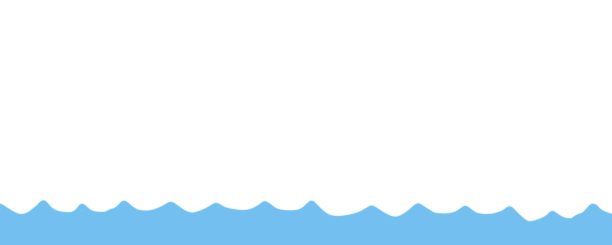
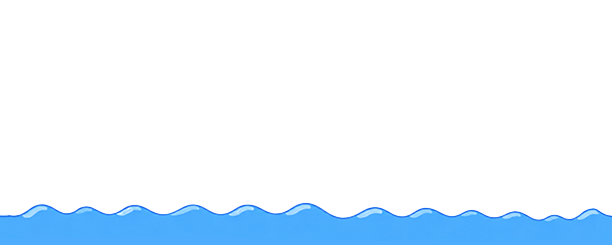
water splashes

Changed region(s): [[0.0, 0.8, 1.0, 1.0]]

diff --git a/core/src/main/java/com/bouncefish/entities/Water.java b/core/src/main/java/com/bouncefish/entities/Water.java
@@ -3,23 +3,84 @@ package com.bouncefish.entities;
 import com.badlogic.gdx.Gdx;
 import com.badlogic.gdx.graphics.Texture;
 import com.badlogic.gdx.graphics.g2d.Animation;
+import com.badlogic.gdx.graphics.g2d.Sprite;
 import com.badlogic.gdx.graphics.g2d.TextureRegion;
+import com.badlogic.gdx.math.Vector2;
+import com.badlogic.gdx.utils.Array;
+import com.bouncefish.utils.GameConstants;
 
 public class Water {
-    private static Animation<TextureRegion> waterAnimation;
+    private static Texture waterTexture;
+    private static TextureRegion waterRegion;
     private static float stateTime;
-    public static void initAnime(){
-        Texture texture1 = new Texture("water.png");
-        Texture texture2 = new Texture("water_.png");
-        TextureRegion[] frames = new TextureRegion[2];
-        frames[0] = new TextureRegion(texture1);
-        frames[1] = new TextureRegion(texture2);
-        waterAnimation = new Animation<>(0.5F,frames);
+    private static Animation<TextureRegion> splashAnimation;
+    private static Array<Float> splashX = new Array<>();
+    private static Array<Float> splashTime = new Array<>();
+    private static float splashWidth = 128f;
+    private static float splashHeight = 128f;
+
+
+    public static void initAnime() {
+        waterTexture = new Texture("water.png");
+        waterTexture.setWrap(Texture.TextureWrap.Repeat, Texture.TextureWrap.ClampToEdge);
+
+        waterRegion = new TextureRegion(waterTexture);
+
+        TextureRegion[] frames = new TextureRegion[] {
+            new TextureRegion(new Texture("splash1.png")),
+            new TextureRegion(new Texture("splash2.png"))
+        };
+
+        splashAnimation = new Animation<>(0.5f, frames);
+        splashAnimation.setPlayMode(Animation.PlayMode.NORMAL);
     }
-    public static TextureRegion getAnimeFrame(){
-        return waterAnimation.getKeyFrame(stateTime,true);
+
+    public static TextureRegion getAnimeFrame() {
+        float scrollSpeed = 0.1f; // higher = faster
+
+        float u = (stateTime * scrollSpeed) % 1f;
+
+        waterRegion.setRegion(u, 0f, u + 1f, 1f);
+
+        return waterRegion;
     }
-    public static void handleTimeStep(){
+    public static void setSplashSize(float width, float height) { //in case we want different sizes
+        splashWidth = width;
+        splashHeight = height;
+    }
+    public static void playSplash(float x) {
+        splashX.add(x);
+        splashTime.add(0f);
+    }
+    public static Array<Sprite> getSplashFrames() {
+        float delta = Gdx.graphics.getDeltaTime();
+        Array<Sprite> frames = new Array<>();
+
+        for (int i = splashTime.size - 1; i >= 0; i--) {
+            float time = splashTime.get(i) + delta;
+            splashTime.set(i, time);
+
+            if (splashAnimation.isAnimationFinished(time)) {
+                splashTime.removeIndex(i);
+                splashX.removeIndex(i);
+                continue;
+            }
+
+            Sprite sprite = new Sprite(splashAnimation.getKeyFrame(time, false));
+            sprite.setSize(splashWidth, splashHeight);
+            sprite.setPosition(splashX.get(i), GameConstants.WATER_LEVEL);
+
+            frames.add(sprite);
+        }
+
+        return frames;
+    }
+
+    public static float getSplashX(int index) {
+        return splashX.get(index);
+    }
+
+    public static void handleTimeStep() {
         stateTime += Gdx.graphics.getDeltaTime();
     }
 }

diff --git a/core/src/main/java/com/bouncefish/entities/OrdinaryFish.java b/core/src/main/java/com/bouncefish/entities/OrdinaryFish.java
@@ -1,5 +1,6 @@
 package com.bouncefish.entities;
 
+import com.badlogic.gdx.Game;
 import com.badlogic.gdx.Gdx;
 import com.bouncefish.utils.GameConstants;
 
@@ -50,15 +51,20 @@ public abstract class OrdinaryFish extends Creature{
     public void handleBouncedOn() { //ordinary fish all behave the same; so put this here
         isBouncedOn = true;
         isBouncable = false;
+        inWater = false;
         float newXVelocity = movingLeft? -50:50;
         setXVelocity(newXVelocity);
-        setYVelocity(-500);
+        setYVelocity(-800);
         setMovementFunction(OrdinaryFish::bouncedOnMovement);
     }
 
     public static void bouncedOnMovement(Creature creature){
         creature.xPosition += creature.xVelocity * creature.movementSpeedMultiplier * Gdx.graphics.getDeltaTime();
         creature.yPosition += creature.yVelocity * creature.movementSpeedMultiplier * Gdx.graphics.getDeltaTime();
+        if(!creature.inWater && creature.yPosition<=GameConstants.WATER_LEVEL){
+            creature.inWater = true;
+            Water.playSplash(creature.xPosition);
+        }
     }
 
     public static void parabolicMotion(Creature creature){
@@ -67,10 +73,16 @@ public abstract class OrdinaryFish extends Creature{
         creature.xPosition += creature.getXVelocity() * deltaTime;
         float dx = Math.abs(creature.getX() - creature.getStartX());
 
+        float lastYPosition = creature.yPosition;
         creature.yPosition = (creature.getLeadingCoefficient() * dx * dx) + (creature.getLinearCoefficient() * dx) + c;
+        float dy = creature.yPosition - lastYPosition;
+        if(!creature.jumpedOutOfWater && creature.yPosition - GameConstants.WATER_LEVEL <= 0.1F){ //play the splash near the position where the fish jumps out of the water
+            creature.jumpedOutOfWater = true;
+            Water.playSplash(creature.xPosition);
+        }else if(dy < 0 && !creature.inWater && creature.yPosition<=GameConstants.WATER_LEVEL){
+            creature.inWater = true;
+            Water.playSplash(creature.xPosition + 100); //used a magic number; using this number makes the visual effect better
+        }
+
     }
-    //TODO: add methods to change the parameters of the parabolic motion?
-
-
-
 }

diff --git a/core/src/main/java/com/bouncefish/Main.java b/core/src/main/java/com/bouncefish/Main.java
@@ -6,16 +6,19 @@ import com.badlogic.gdx.InputMultiplexer;
 import com.badlogic.gdx.graphics.Color;
 import com.badlogic.gdx.graphics.Texture;
 import com.badlogic.gdx.graphics.g2d.BitmapFont;
+import com.badlogic.gdx.graphics.g2d.Sprite;
 import com.badlogic.gdx.graphics.g2d.SpriteBatch;
 import com.badlogic.gdx.graphics.g2d.TextureRegion;
 import com.badlogic.gdx.graphics.glutils.ShapeRenderer;
 import com.badlogic.gdx.input.GestureDetector;
 import com.badlogic.gdx.math.Rectangle;
+import com.badlogic.gdx.math.Vector2;
 import com.badlogic.gdx.scenes.scene2d.Actor;
 import com.badlogic.gdx.scenes.scene2d.Stage;
 import com.badlogic.gdx.scenes.scene2d.ui.Skin;
 import com.badlogic.gdx.scenes.scene2d.ui.TextButton;
 import com.badlogic.gdx.scenes.scene2d.utils.ChangeListener;
+import com.badlogic.gdx.utils.Array;
 import com.badlogic.gdx.utils.ScreenUtils;
 import com.bouncefish.entities.BounceFish;
 import com.bouncefish.entities.Crab;
@@ -176,6 +179,13 @@ public class Main extends ApplicationAdapter {
                     _batch.draw(currentFrame, creature.getX() + creature.getWidth(), creature.getY(), -creature.getWidth(), creature.getHeight());
                 }
 
+            }
+
+
+            Array<Sprite> splashSprites = Water.getSplashFrames();
+
+            for (Sprite splash : splashSprites) {
+                splash.draw(_batch);
             }
 
             TextureRegion waterFrame = Water.getAnimeFrame();

diff --git a/core/src/main/java/com/bouncefish/entities/Crab.java b/core/src/main/java/com/bouncefish/entities/Crab.java
@@ -15,6 +15,7 @@ public class Crab extends Creature {
     private static final float BASE_SPEED = 500;
     private float lastStateTime;
 
+
     public Crab(float spawnTime, float spawnX, float spawnY, float speedMultiplier, Consumer<Creature> movementFunction) {
         this(spawnTime, spawnX, movementFunction);
         this.yPosition = GameConstants.WATER_LEVEL + spawnY;
@@ -58,7 +59,7 @@ public class Crab extends Creature {
         isBouncable = false;
         float newXVelocity = movingLeft? -10:10;
         setXVelocity(newXVelocity);
-        setYVelocity(-500);
+        setYVelocity(-800);
         setMovementFunction(Crab::bouncedOnMovement);
         lastStateTime = stateTime;
     }
@@ -66,6 +67,10 @@ public class Crab extends Creature {
     public static void bouncedOnMovement(Creature creature){
         creature.xPosition += creature.xVelocity * creature.movementSpeedMultiplier * Gdx.graphics.getDeltaTime();
         creature.yPosition += creature.yVelocity * creature.movementSpeedMultiplier * Gdx.graphics.getDeltaTime();
+        if(!creature.inWater && creature.yPosition<=GameConstants.WATER_LEVEL){
+            creature.inWater = true;
+            Water.playSplash(creature.xPosition);
+        }
     }
 
     @Override

diff --git a/core/src/main/java/com/bouncefish/entities/Creature.java b/core/src/main/java/com/bouncefish/entities/Creature.java
@@ -37,6 +37,10 @@ public abstract class Creature {
     protected float boundOffsetY = 0F;
     protected boolean movingLeft;
     protected boolean active = true;
+    protected boolean inWater;//added this because it seems that the creature never deallocates,
+    // and keeps calling Water.playSplash() after falling into the water. haven't got time to figure
+    // this out, though; just a simple fix, so no data protection mechanisms yet
+    protected boolean jumpedOutOfWater; //another hack, specifically for ordinary fish parabolic motion. Ordinary fish is already in the water at first(y<water level)
     public boolean isMovingLeft(){
         return movingLeft;
     }

diff --git a/core/src/main/java/com/bouncefish/utils/GameConstants.java b/core/src/main/java/com/bouncefish/utils/GameConstants.java
@@ -30,7 +30,7 @@ public final class GameConstants {
     public final static float SPAWN_STASIS_SECONDS = 3F;
     public final static float CLEANUP_FREQUENCY = 3F; // How often in seconds to deallocate creatures out of bounds
     //public static int WATER_LEVEL = 50; //the height of water level in pixel unit
-    public static int SHARK_DECTECTION_WIDTH = 60;//attacks if bouncefish fall into this range
+    public static int SHARK_DECTECTION_WIDTH = 38;//attacks if bouncefish fall into this range
     public static int SHARK_DECTECTION_HEIGHT = 1600;
     public static int SHARK_JUMP_HEIGHT = (int)(Screen_Height * 0.42);
     public static int SHARK_ATK_COOLDOWN = 200;

diff --git a/core/src/main/java/com/bouncefish/entities/Marlin.java b/core/src/main/java/com/bouncefish/entities/Marlin.java
@@ -53,7 +53,7 @@ public class Marlin extends Creature {
         isBouncable = false;
         float newXVelocity = movingLeft? -10:10;
         setXVelocity(newXVelocity);
-        setYVelocity(-500);
+        setYVelocity(-800);
         setMovementFunction(com.bouncefish.entities.Crab::bouncedOnMovement);
 
         ProgressTracker.increaseScore(100);
